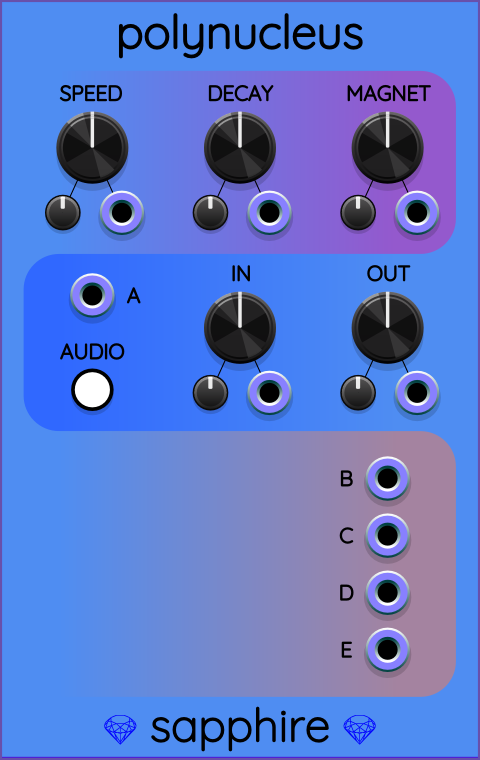
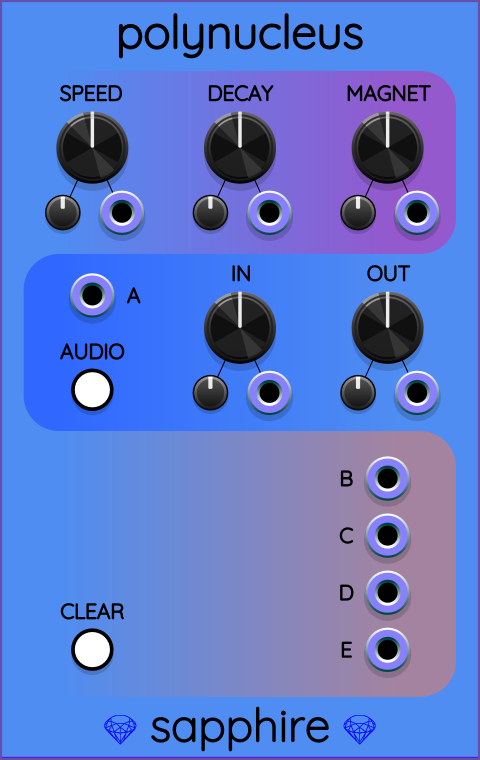
Fixed #42 - added CLEAR button to Polynucleus.

Changed region(s): [[0.125, 0.7868, 0.2812, 0.9079]]

diff --git a/src/polynucleus.cpp b/src/polynucleus.cpp
@@ -36,6 +36,8 @@ namespace Sapphire
             AGC_LEVEL_PARAM,
             DC_REJECT_PARAM,
 
+            CLEAR_BUTTON_PARAM,
+
             PARAMS_LEN
         };
 
@@ -67,6 +69,7 @@ namespace Sapphire
         enum LightId
         {
             AUDIO_MODE_BUTTON_LIGHT,
+            CLEAR_BUTTON_LIGHT,
 
             LIGHTS_LEN
         };
@@ -132,6 +135,7 @@ namespace Sapphire
                 configOutput(E_OUTPUT, "Particle E");
 
                 configButton(AUDIO_MODE_BUTTON_PARAM, "Toggle audio/CV output mode");
+                configButton(CLEAR_BUTTON_PARAM, "Brings the simulation back to its quiet initial state");
 
                 agcLevelQuantity = configParam<AgcLevelQuantity>(
                     AGC_LEVEL_PARAM,
@@ -189,6 +193,7 @@ namespace Sapphire
                 using namespace Nucleus;
 
                 params[AUDIO_MODE_BUTTON_PARAM].setValue(1.0f);
+                params[CLEAR_BUTTON_PARAM].setValue(0.0f);
 
                 engine.initialize();
                 SetMinimumEnergy(engine);
@@ -239,6 +244,11 @@ namespace Sapphire
             bool isEnabledAudioMode() const
             {
                 return params[AUDIO_MODE_BUTTON_PARAM].value > 0.5f;
+            }
+
+            bool isClearButtonPressed() const
+            {
+                return params[CLEAR_BUTTON_PARAM].value > 0.5f;
             }
 
             void onReset(const ResetEvent& e) override
@@ -301,6 +311,10 @@ namespace Sapphire
 
             void process(const ProcessArgs& args) override
             {
+                lights[CLEAR_BUTTON_LIGHT].setBrightness(isClearButtonPressed() ? 1.0f : 0.0f);
+                if (isClearButtonPressed())
+                    resetSimulation();      // keep resetting as long as button is held down
+
                 // Get current control settings.
                 const float drive = getInputDrive();
                 const float gain = getOutputLevel();
@@ -465,8 +479,11 @@ namespace Sapphire
                 addSapphireAttenuverter(SPIN_ATTEN_PARAM, "spin_atten");
 #endif
 
-                auto toggle = createLightParamCentered<VCVLightBezelLatch<>>(Vec{}, module, AUDIO_MODE_BUTTON_PARAM, AUDIO_MODE_BUTTON_LIGHT);
-                addReloadableParam(toggle, "audio_mode_button");
+                auto audioModeButton = createLightParamCentered<VCVLightBezelLatch<>>(Vec{}, module, AUDIO_MODE_BUTTON_PARAM, AUDIO_MODE_BUTTON_LIGHT);
+                addReloadableParam(audioModeButton, "audio_mode_button");
+
+                auto clearButton = createLightParamCentered<VCVLightBezel<>>(Vec{}, module, CLEAR_BUTTON_PARAM, CLEAR_BUTTON_LIGHT);
+                addReloadableParam(clearButton, "clear_button");
 
                 reloadPanel();
             }

diff --git a/util/make_sapphire_svg.py b/util/make_sapphire_svg.py
@@ -453,6 +453,11 @@ def GeneratePolynucleusPanel() -> int:
             AddControlGroup(pl, controls, font, 'spin',     'SPIN',   xKnobLeft,  yKnobRow3, 3.7)
             AddControlGroup(pl, controls, font, 'visc',     'VISC',   xmid,       yKnobRow3, 3.7)
 
+        xButton = xKnobLeft
+        yButton = yOutTop + 3*dyOut
+        controls.append(Component('clear_button', xButton, yButton))
+        pl.append(CenteredControlTextPath(font, 'CLEAR', xButton, yButton - 6.5))
+
         # Add toggle button with alternating text labels AUDIO and CONTROL.
         # We do this by creating two extra SVG files that contain one word each.
         # Then we hide/show the layers as needed to show only AUDIO or CONTROL (not both).

diff --git a/CHANGELOG.md b/CHANGELOG.md
@@ -14,6 +14,7 @@
 <td align="left">
     <ul>
         <li>Nucleus and Polynucleus: added a right-click slider for adjusting the DC reject filter's corner frequency. Before this change, both modules had a fixed corner frequency of 30&nbsp;Hz. This is still the default frequency, but now the right-click menu allows you to change the corner frequency to any value from 20&nbsp;Hz to 400&nbsp;Hz.</li>
+        <li>Polynucleus: added a CLEAR button that resets the simulation, just like the right-click menu option does.</li>
         <li>Moots: Fixed cosmetic issue <a href="https://github.com/cosinekitty/sapphire/issues/45">#45</a>: when the user changes from gate mode to trigger mode, the text GATE on the panel now changes to TRIGGER.</li>
     </ul>
 </td>

diff --git a/Polynucleus.md b/Polynucleus.md
@@ -18,4 +18,16 @@ unintentional changes to existing patches.
 
 ---
 
+Polynucleus includes a CLEAR button that is absent in Nucleus.
+Pressing this button resets the simulation so that it goes
+back to its quiet initial state. This can be handy when the
+simulation has become destabilized.
+
+The CLEAR button does the same thing as the right-click menu option
+"Reset simulation", only it allows you to hold the simulation
+in its low energy state as long as you hold down the button.
+It is also more convenient than the right-click option.
+
+---
+
 [Sapphire module list](README.md)
